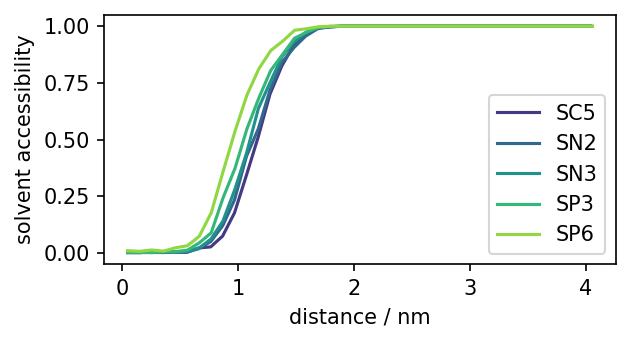
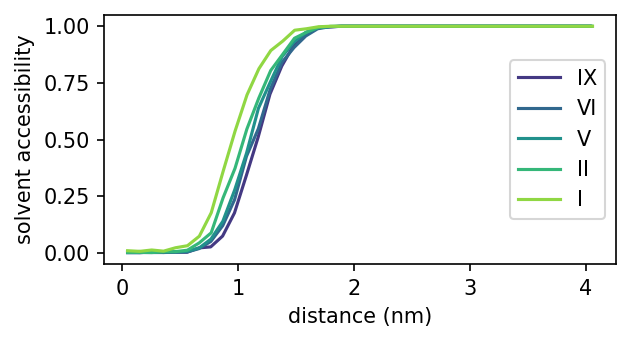
update solvent accessibility profiles to use hydroph. levels

Changed region(s): [[0.754, 0.1754, 0.9651, 0.7602], [0.4524, 0.9064, 0.6937, 0.9649]]

diff --git a/martini3/cholesterol00p_PC_variousTails_sims/saturation_DPPC-POPC_titration/perm_particle_EOLS/dopc-unsat_0-169_d_100/plot_mean_solvation_of_x_all_sims.md b/martini3/cholesterol00p_PC_variousTails_sims/saturation_DPPC-POPC_titration/perm_particle_EOLS/dopc-unsat_0-169_d_100/plot_mean_solvation_of_x_all_sims.md
@@ -1,0 +1,282 @@
+---
+jupyter:
+  jupytext:
+    formats: ipynb,md
+    text_representation:
+      extension: .md
+      format_name: markdown
+      format_version: '1.2'
+      jupytext_version: 1.5.2
+  kernelspec:
+    display_name: Python 3
+    language: python
+    name: python3
+---
+
+# Mean solvation across membrane
+In this notebook, 
+I calculate and Plot the mean solvation 
+(mean number of solvent particles from `gmx mindist` called `numcont`)
+as a function of the distance from the membrane center (from `pullx`).
+
+```python
+import pandas as pd
+import numpy as np
+import seaborn as sns
+import matplotlib.pyplot as plt
+import os, fnmatch
+import pickle
+
+```
+
+```python
+def find(pattern, path):
+    result = []
+    for root, dirs, files in os.walk(path):
+        for name in files:
+            if fnmatch.fnmatch(name, pattern):
+                result.append(os.path.join(root, name))
+    return result
+
+
+def locate(pattern, root=os.curdir):
+    '''Locate all files matching supplied filename pattern in and below
+    supplied root directory.'''
+    for path, dirs, files in os.walk(os.path.abspath(root)):
+        for filename in fnmatch.filter(files, pattern):
+            yield os.path.join(path, filename)
+
+```
+
+```python
+class Simulation:
+    """
+    class that is very specific to the use with my permeability project.
+    It uses pre-analyzed results from Gromacs
+    to calculate the mean hydration along the membrane normal.
+    """
+    def __init__(self, pullx_fname='pullx.xvg', numcont_fname="numcont_particle-solvent.xvg"):
+        self.dirname       = os.path.dirname(pullx_fname)
+        self.pullx_fname   = pullx_fname
+        self.numcont_fname = numcont_fname
+        
+        
+    def load_df(self, fname, columns, app_func=None):
+        """
+        methods loads a xvg file (expecting only two columns) 
+        and turnes it into a dataframe with the described column names.
+        columns shall be a list of column names.
+        app_func is a name of a function to be applied on the resulting DataFrame
+        """
+        arr = np.loadtxt(fname, dtype=float, comments=["#", "@"])
+        df  = pd.DataFrame(arr, columns=columns).set_index(columns[0])
+        if app_func:
+            df = df.apply(app_func)
+            
+        return df
+
+    
+    def merge2dfs(self, df1, df2, on_index='t'):
+        "simply merge two dataframes o the specified index name"
+        return df1.merge(df2, on=on_index)
+    
+    
+    def load_xnt_df(self):
+        """
+        loads in necessarry data to return 
+        a DataFrame containing the x - numcont values 
+        with t as index
+        """
+        df = self.merge2dfs(self.load_df(self.pullx_fname, columns=['t', 'x'], app_func=abs),
+                                   self.load_df(self.numcont_fname, columns=['t', 'numcont']))
+        #df.numcont = df.numcont.apply(int)
+        return df
+      
+        
+    @property
+    def mean_solv(self):
+        try:
+            return self.__mean_solv_df
+        except:
+            return self.calc_mean_solv()
+            
+
+    @property
+    def degree_of_solv(self):
+        """
+        using a definition that 0=dry ; 1=in contact with solvent
+        the average value tells on the probability of 
+        being dry -vs- in contact with at least one solvent molecule. 
+        """
+        try:
+            return self.__degree_of_solv_df
+        except:
+            return self.calc_mean_solv(degree_of_solv=True)
+            
+    
+    def calc_mean_solv(self, bins=40, degree_of_solv=False):
+        """
+        calculate the profile of mean solvation (incl. std).
+        input DataFrame has to have a column 'x'
+        and
+        calculate the degree of solbvation - stores as a hidden variable
+        """
+        # load the files to make the x-numcont(t) DataFrame
+        xnbinst = self.load_xnt_df()
+        # perform binning (equal sizes)
+        xnbinst['bins'] = pd.cut(xnbinst.x, bins=bins)
+        # empty list to contain the final array
+        mean_solvation_list = []
+        degree_of_solvation_list = []
+        for group in xnbinst.groupby(by='bins'):
+            grind = group[0]
+            df = group[1]
+            # store the center of the bin and the mean+std of solvation value
+            mean_solvation_list.append([grind.mid, df.numcont.agg(np.mean), df.numcont.agg(np.std)])
+            # change the DF so that numcont value is truncated to 1 for higher values
+            df['degsolv'] = df['numcont'].where(df['numcont']<1.0, other=1.0)
+            degree_of_solvation_list.append([grind.mid, df.degsolv.agg(np.mean), df.degsolv.agg(np.std)])
+
+        self.__mean_solv_df = pd.DataFrame(mean_solvation_list, 
+                                           columns=["x [nm]", "num_solvent mean", "num_solvent std"])
+        self.__degree_of_solv_df = pd.DataFrame(degree_of_solvation_list, 
+                                           columns=["x [nm]", "degree of solvation mean", "degree of solvation std"])
+        
+        if degree_of_solv:
+            return self.__degree_of_solv_df
+        else:
+            return self.__mean_solv_df
+
+
+    def plot_mean_solv_profile(self, alpha=0.5, plt_label=None, plt_stdev=False, plt_solvdeg=False):
+        """
+        output: seaborn plot of the mean solvation profile including a
+        Standard deviation as a fill-between area
+        """
+        if plt_solvdeg:
+            colname = 'degree of solvation'
+            simdf = self.degree_of_solv
+        else:
+            colname = 'num_solvent'
+            simdf = self.mean_solv
+            
+        simdf['y1'] = simdf[colname+' mean'] + simdf[colname+' std']
+        simdf['y2'] = simdf[colname+' mean'] - simdf[colname+' std']
+        simdf['y2'] = simdf['y2'].where(simdf['y2']>0.0, other=0.0)
+        
+        # store the DF for quick check and access
+        self.simdf = simdf.copy()
+        
+        #plotting!
+        fig = sns.lineplot(data=simdf, x='x [nm]', y=colname+' mean', label=plt_label )
+        if plt_stdev:
+            fig.fill_between(data=simdf, x='x [nm]', y1='y1', y2='y2', alpha=alpha)
+        
+        return fig
+```
+
+# Plot the average numcont value per bin/gridpoint
+This property does not need to be reweighted as the averages per each bin 
+are independent. 
+Only sufficient amount of sampling is necessary. 
+
+```python
+# find all pullx files in the curdir and below
+pullx_files = find("pullx.xvg", os.curdir)
+
+# create Simulation class instance based on the generated data
+sims    = []
+for f in pullx_files:
+    dirname = os.path.dirname(f)
+    numcont_fname = os.path.join(dirname, "numcont_particle-solvent.xvg")
+    sim = Simulation(pullx_fname=f, numcont_fname=numcont_fname)
+    sims.append(sim)
+    print(dirname)
+
+```
+
+```python
+# list of selected particles for plotting (selected a few for clarity of the plot)
+selected_particles = ["SC5", "SP3", "SP6", "SN2", "SN3"]
+# hydrophobic levels as defined in the publication for the selected particles (in the same order!)
+selected_particles_hydrophobic_levels = ["IX", "II", "I", "VI", "V"]
+# dictionary for particle-name :: hydrophobic-level translation  
+# (particle names are in dirnames, but levels are desired in the legends)
+particle_names_to_levels = { k:v for (k, v) in zip(selected_particles, selected_particles_hydrophobic_levels)}
+
+# select a nice palette
+sns.set_palette("viridis", n_colors=len(selected_particles))
+```
+
+```python
+# sort the list of simulations after their particle name (follows solubility, yay!)
+sims.sort(key=lambda sim: sim.dirname[-3:])
+```
+
+```python
+# make a plot of the solvatation profile for each simulation 
+for sim in sims:
+    if any(x in sim.dirname for x in selected_particles):
+        try: 
+            fig = sim.plot_mean_solv_profile(plt_label=sim.dirname[-3:])
+        except:
+            pass
+
+fig.figure.set_size_inches([4.4,2.2])
+fig.set_xlabel("distance / nm")
+fig.set_ylabel("mean solvation")
+        
+fig.figure.savefig("mean_solvation_profiles.png", dpi=150, bbox_inches='tight')
+
+fig.set_xlim([0.5,2.2])
+fig.set_ylim([-0.1, 8.0])
+fig.figure.savefig("mean_solvation_profiles_zoomin.png", dpi=150, bbox_inches='tight')
+
+```
+
+```python
+# make a plot of the solvatation profile for each simulation 
+for sim in sims:
+    if any(x in sim.dirname for x in selected_particles):
+        try: 
+            curr_part_name = sim.dirname[-3:]
+            curr_hydrophobic_level = particle_names_to_levels[curr_part_name]
+            fig = sim.plot_mean_solv_profile(plt_label=curr_hydrophobic_level, plt_solvdeg=True)
+        except:
+            pass
+
+fig.figure.set_size_inches([4.4,2.2])
+plt.legend(loc="right")
+fig.set_xlabel("distance (nm)")
+fig.set_ylabel("solvent accessibility")
+        
+fig.figure.savefig("solvent_accessibility_profiles.png", dpi=150, bbox_inches='tight')
+```
+
+```python
+
+```
+
+# I/O of the collected data
+
+Save the list of Simulation class instances as a pickled object and
+prepare a cell to load it again for later quick use. 
+
+```python
+# save the list of simulations
+with open("mean_solvation_obj_list.pickle", 'bw') as picfile: 
+    pickle.dump(sims, picfile)
+    print("Saved the sims list to: ", picfile.name)
+    
+```
+
+```python
+# read the list of Simulation class instances from a pickled file
+with open("mean_solvation_obj_list.pickle", 'br') as picfile: 
+    sims = pickle.load(picfile)
+
+```
+
+```python
+
+```
